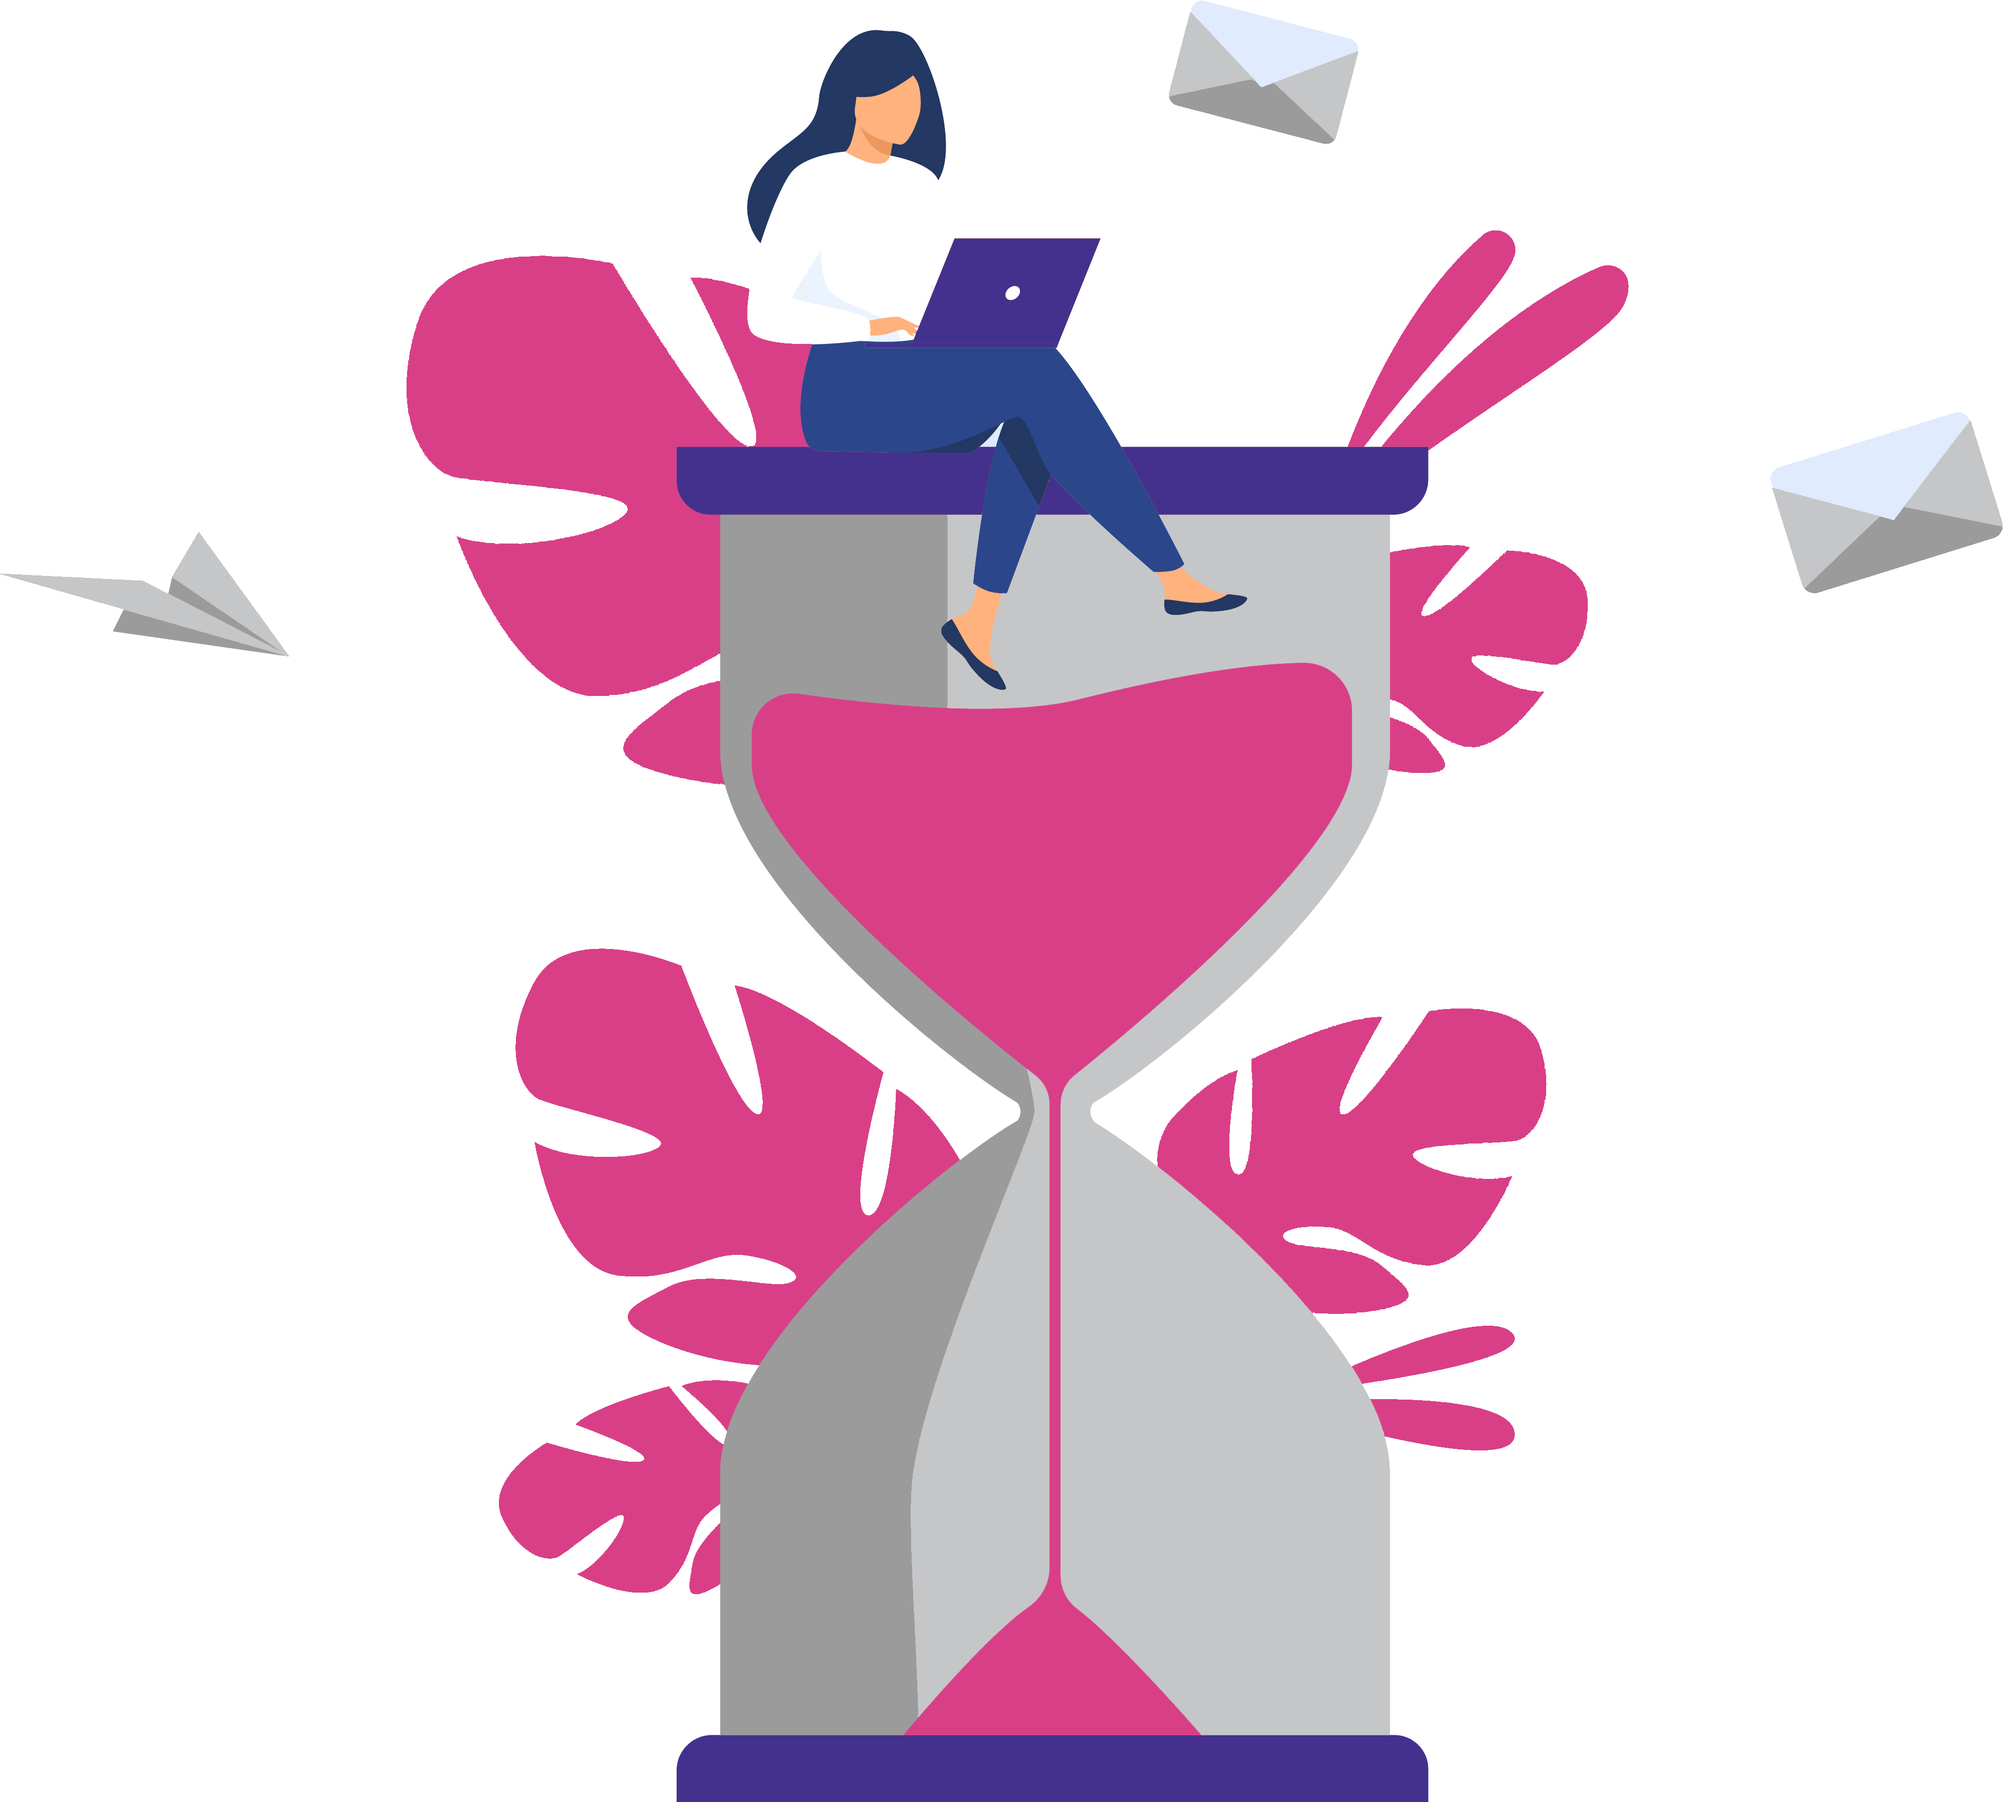
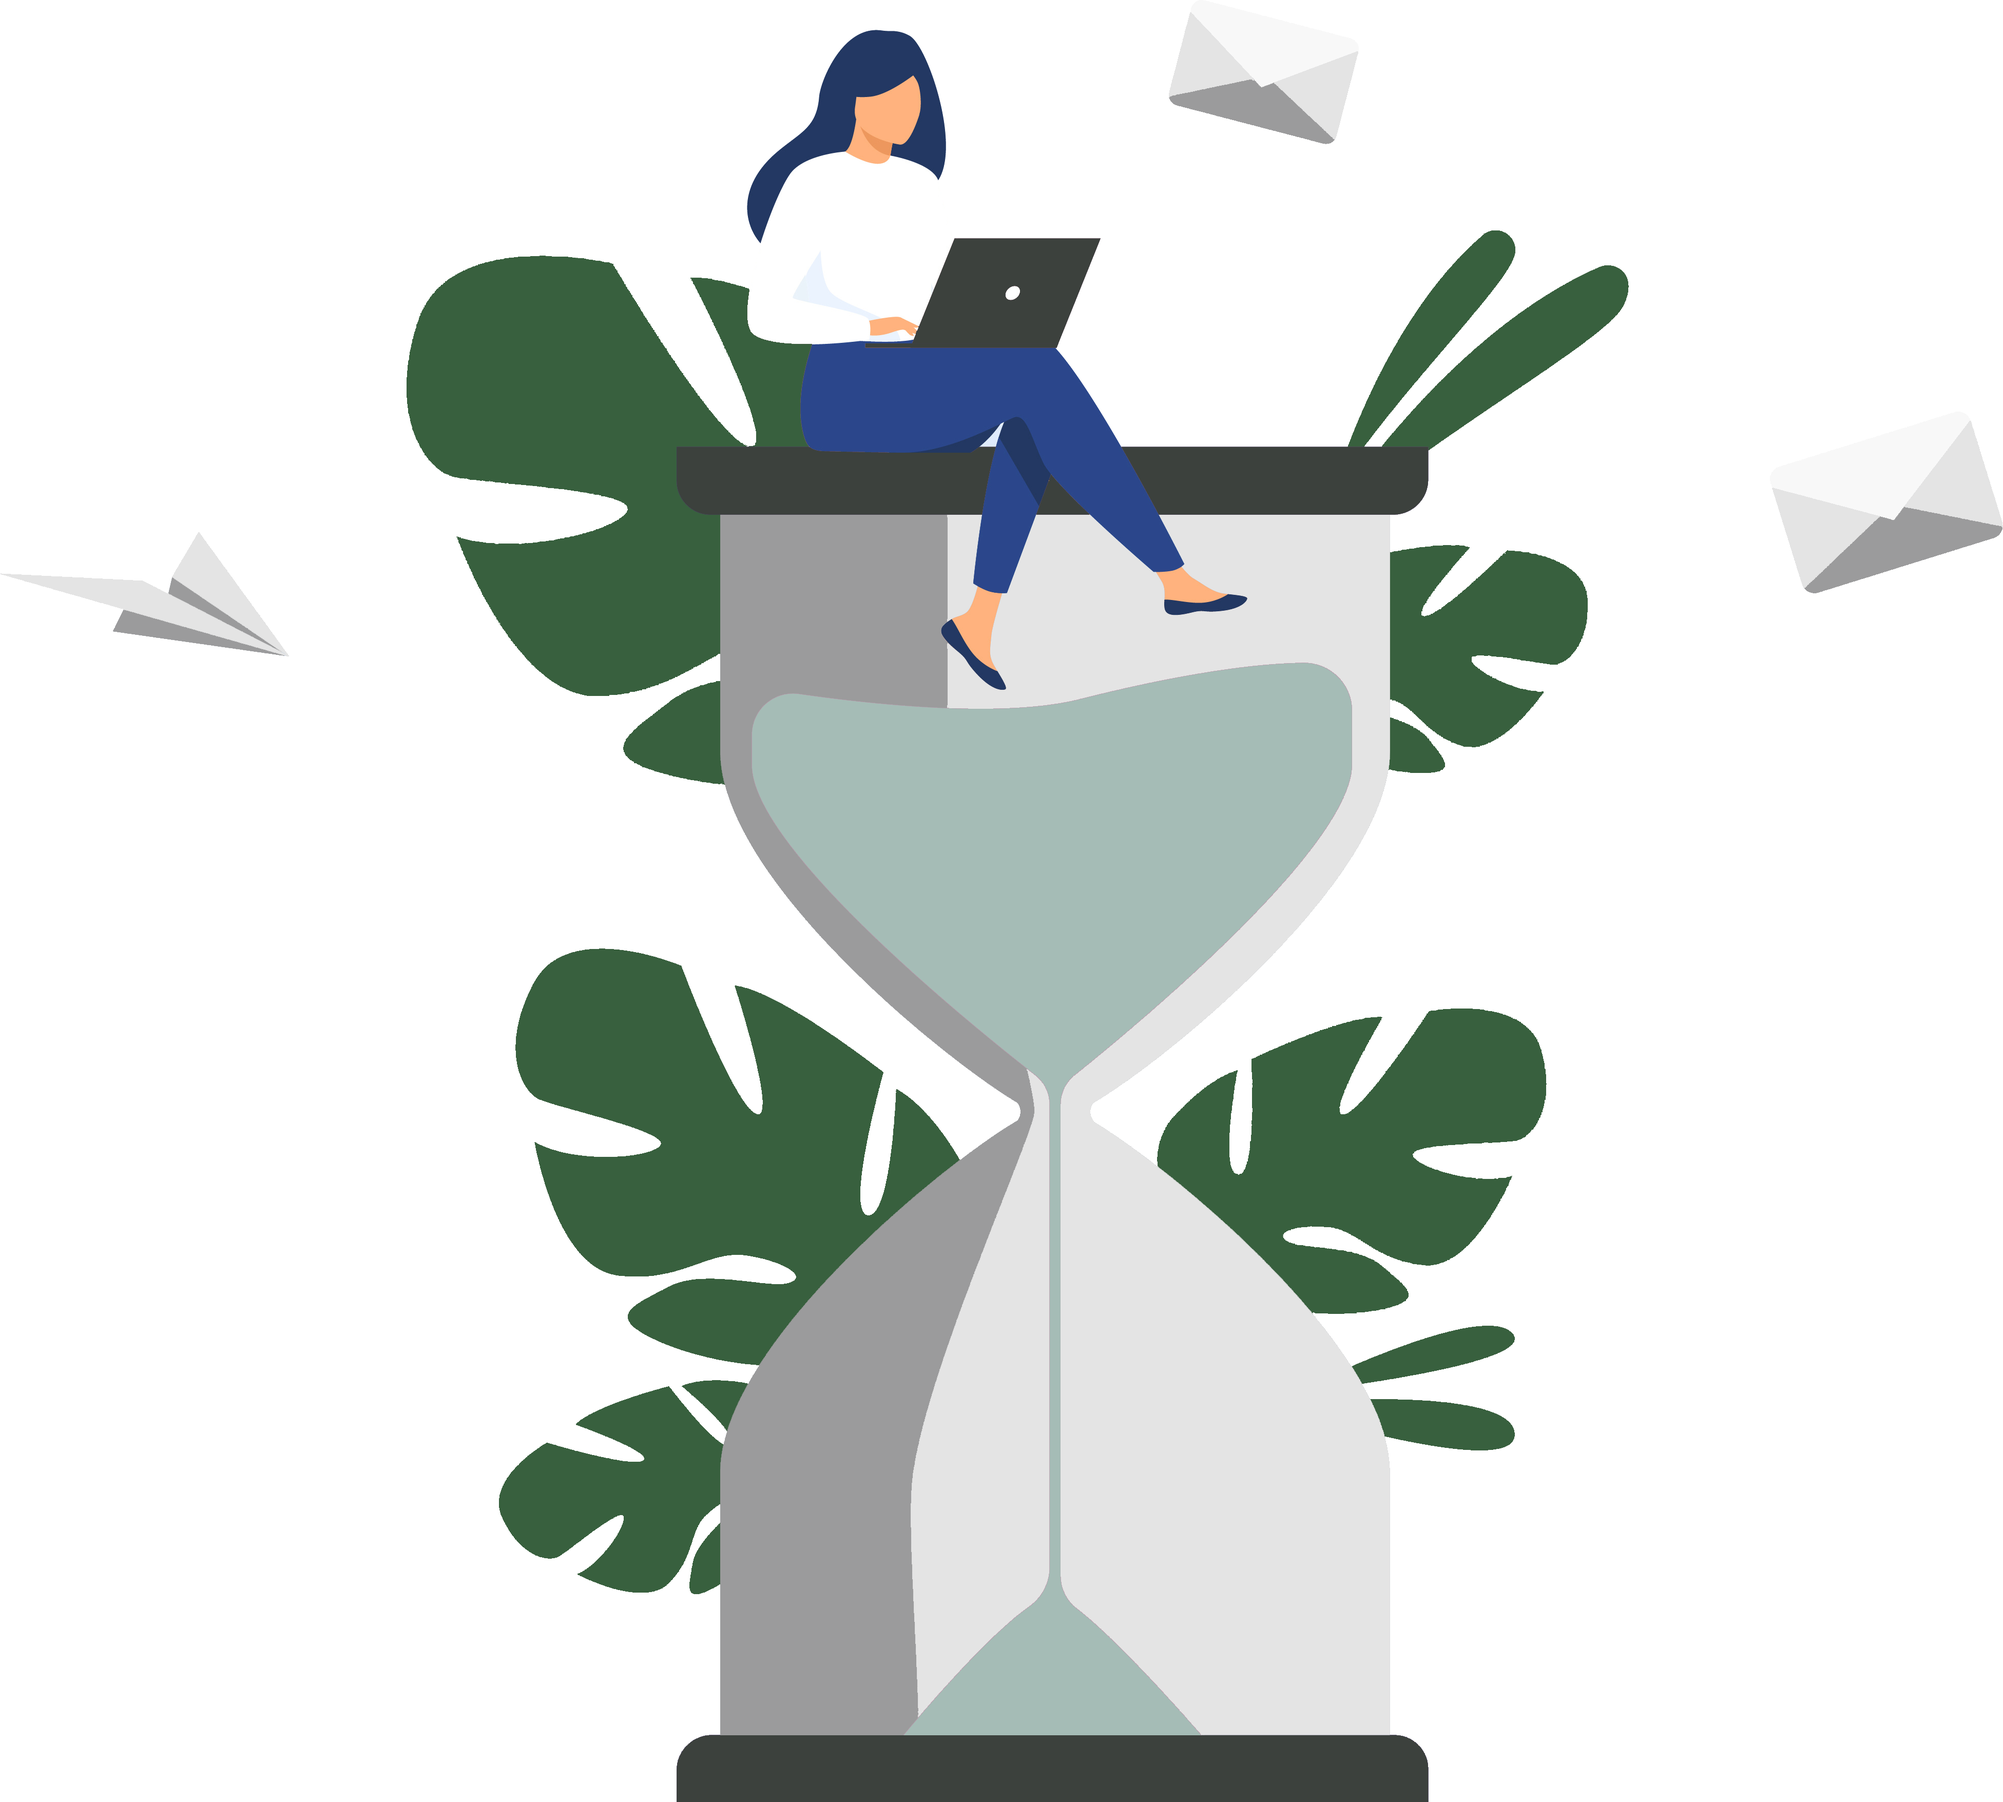
update

diff --git a/css/style.css b/css/style.css
@@ -1,9 +1,3 @@
-/* PALETA DE COLORES
-Azul oscuro = #202833
-Gris = #c5c6c8
-Rosa = #d93f87
-*/
-
 * {
   margin: 0;
   padding: 0;
@@ -11,10 +5,14 @@ Rosa = #d93f87
 }
 
 body {
-  background-color: #202833;
-  color: #c5c6c8;
+  background-color: #dbded5;
+  color: #3c413d;
   width: 100%;
 
+}
+
+header {
+  margin-top: 10px;
 }
 
 header img {
@@ -32,50 +30,28 @@ main {
   width: 60%;
   margin: 0 auto;
   text-align: center;
+  flex-grow: 1;
 }
 
-textarea,
-.asideContainer {
-  width: 90%;
-  height: 60vh;
+textarea {
+  width: 87%;
+  height: 30vw;
   border-radius: 20px;
-  vertical-align: top;
   padding-top: 10px;
   resize: none;
   text-align: justify;
-  padding: 2vw;
-  background-color: #202833;
-  color: #c5c6c8;
-  margin: 2vw;
+  background-color: #dbded5;
+  padding: 20px;
   font-size: 18px;
   font-weight: bold;
   border: none;
 }
 
 textarea:hover,
-.asideContainer:hover {
-  background-color: #d93f87;
-  outline: none;
-  box-shadow: 0 0 10px #d93f87,
-    0 0 20px #d93f87,
-    0 0 30px #d93f87;
-  color: #202833;
-  border: 3px solid rgba(241, 241, 241, 0.562);
-}
+textarea:focus {
 
-textarea:focus,
-.asideContainer:focus {
-  background-color: #d93f87;
   outline: none;
-  box-shadow: 0 0 10px #d93f87,
-    0 0 20px #d93f87,
-    0 0 30px #d93f87;
-  color: #202833;
-  border: 3px solid rgba(241, 241, 241, 0.562);
-}
 
-.encryptedText {
-  display: none;
 }
 
 .textAlert {
@@ -84,39 +60,49 @@ textarea:focus,
   font-weight: bold;
 }
 
+.errorAlert {
+  display: none;
+  font-size: 18px;
+}
+
 button {
-  background-color: #202833;
-  color: #c5c6c8;
+  background-color: #a5bcb6;
+  color: #3c413d;
   padding: 15px;
   border-radius: 10px;
   width: 30%;
   margin: 20px 10px;
-  box-shadow: 0 0 5px #d93f87,
-    0 0 10px #d93f87;
-  border: 3px solid #d93f87;
   font-weight: bold;
+  border: none;
 }
 
-button:hover {
-  background-color: #d93f87;
-  outline: none;
-  box-shadow: 0 0 10px #d93f87,
-    0 0 20px #d93f87,
-    0 0 30px #d93f87;
-  color: #202833;
-  border: 3px solid rgba(241, 241, 241, 0.562);
-}
-
+button:hover,
 button:focus {
-  background-color: #d93f87;
+  background-color: #38603e;
   outline: none;
-  box-shadow: 0 0 10px #d93f87,
-    0 0 20px #d93f87,
-    0 0 30px #d93f87;
-  color: #202833;
-  border: 3px solid rgba(241, 241, 241, 0.562);
+  color: #dbded7;
 }
 
+.asideContainer,
+.encryptedText {
+  width: 100%;
+  height: 31vw;
+  border-radius: 20px;
+  vertical-align: top;
+  padding-top: 10px;
+  resize: none;
+  text-align: justify;
+  padding: 20px;
+  background-color: #a5bcb6;
+  margin-bottom: 20px;
+  font-size: 16px;
+  font-weight: bold;
+  border: none;
+}
+
+.encryptedText {
+  display: none;
+}
 
 .asideContainer img {
   width: 100%;
@@ -132,4 +118,68 @@ aside {
 h2 {
   padding-bottom: 10px;
   text-align: center;
+}
+
+#copy {
+  width: 70%;
+  margin: 0 auto;
+  display: none;
+}
+
+
+/* Desktop */
+@media screen and (min-width: 1200px) {
+  /* Estilos para desktop */
+}
+
+/* Tablet */
+@media screen and (min-width: 768px) and (max-width: 1199px) {
+  .asideContainer img {
+    display: none;
+  }
+
+  main {
+    width: 90%;
+  }
+
+  aside {
+    width: 90%;
+  }
+
+  textarea {
+    width: 100%;
+    height: 25vw;
+  }
+
+  .asideContainer,
+  .encryptedText {
+    width: 100%;
+    height: 15vw;
+  }
+}
+
+/* Phone */
+@media screen and (max-width: 767px) {
+  .asideContainer img {
+    display: none;
+  }
+  
+  main {
+    width: 90%;
+  }
+
+  aside {
+    width: 90%;
+  }
+
+  textarea {
+    width: 100%;
+    height: auto;
+  }
+
+  .asideContainer,
+  .encryptedText {
+    width: 100%;
+    height: auto;
+  }
 }

diff --git a/js/index.js b/js/index.js
@@ -1,0 +1,82 @@
+const userText = document.querySelector(".userText");
+const textAlert = document.querySelector(".textAlert");
+const errorAlert = document.querySelector(".errorAlert");
+const asideContainer = document.querySelector(".asideContainer");
+const encryptedText = document.querySelector(".encryptedText");
+const copyButton = document.getElementById("copy");
+
+const copyFunc = () => {
+  let copyText = encryptedText;
+  copyText.select();
+  document.execCommand("copy");
+}
+
+const encrypt = document.getElementById("encrypt");
+encrypt.addEventListener("click", (e) => {
+
+  e.preventDefault();
+  const userTextValue = userText.value.toLowerCase();
+
+  if (userTextValue === "") {
+    errorAlert.style.display = "block"
+    textAlert.style.display = "none"
+    userText.value = "Ingrese el texto aqui";
+    asideContainer.style.display = "block";
+    encryptedText.style.display = "none";
+    copy.style.display = "none";
+  } else {
+    errorAlert.style.display = "none"
+    textAlert.style.display = "block"
+
+    const newText = userTextValue
+      .replace(/[e]/g, "enter")
+      .replace(/[i]/g, "imes")
+      .replace(/[a]/g, "ai")
+      .replace(/[o]/g, "ober")
+      .replace(/[u]/g, "ufat");
+
+    asideContainer.style.display = "none";
+    encryptedText.style.display = "block";
+    encryptedText.value = newText;
+    copy.style.display = "block";
+  }
+})
+
+const decrypt = document.getElementById("decrypt");
+decrypt.addEventListener("click", (e) => {
+
+  e.preventDefault();
+  const userTextValue = userText.value.toLowerCase();
+
+  if (userTextValue === "") {
+    errorAlert.style.display = "block"
+    textAlert.style.display = "none"
+    userText.value = "Ingrese el texto aqui";
+    asideContainer.style.display = "block";
+    encryptedText.style.display = "none";
+    copy.style.display = "none";
+  } else {
+    errorAlert.style.display = "none"
+    textAlert.style.display = "block"
+
+    const newText = userTextValue
+    .replace(/enter/g, "e")
+    .replace(/imes/g, "i")
+    .replace(/ai/g, "a")
+    .replace(/ober/g, "o")
+    .replace(/ufat/g, "u");
+
+    asideContainer.style.display = "none";
+    encryptedText.style.display = "block";
+    encryptedText.value = newText;
+    copy.style.display = "block";
+  }
+})
+
+copyButton.addEventListener("click", () => {
+  copyFunc();
+});
+
+  
+
+

diff --git a/main.html b/main.html
@@ -8,7 +8,7 @@
   <title>Encriptador</title>
   <script src="https://kit.fontawesome.com/33fc1bc4f1.js" crossorigin="anonymous"></script>
   <link rel="stylesheet" href="./css/style.css">
-  <link rel="shortcut icon" href="./img/Logo-2.png" type="image/x-icon">
+  <link rel="shortcut icon" href="./img/favicon.png" type="image/x-icon">
 </head>
 
 <body>
@@ -21,7 +21,8 @@
 Ingrese el texto aqui
       </textarea>
       <div>
-        <p class="textAlert"><i class="fa-sharp fa-solid fa-circle-exclamation" style="color: #d93f87;"></i> Solo letras minúsculas y sin acentos</p>
+        <p class="textAlert"><i class="fa-sharp fa-solid fa-circle-exclamation" style="color: #a5bcb6;"></i> Solo letras minúsculas y sin acentos</p>
+        <p class="errorAlert"><i class="fa-solid fa-triangle-exclamation" style="color: #3c413d;"></i> Debe ingresar un texto <i class="fa-solid fa-triangle-exclamation" style="color: #3c413d;"></i></p>
       </div>
       <button type="button" id="encrypt">Encriptar</button>
       <button type="button" id="decrypt">Desencriptar</button>
@@ -33,9 +34,12 @@ Ingrese el texto aqui
         <p>Ingresa el texto que desees encriptar o desencriptar.</p>
       </div>
       <textarea class="encryptedText" readonly="readonly"></textarea>
+      <button type="button" id="copy">Copiar</button>
     </aside>
   </div>
   <script src="./js/index.js"></script>
+  
 </body>
 
 </html>
+
